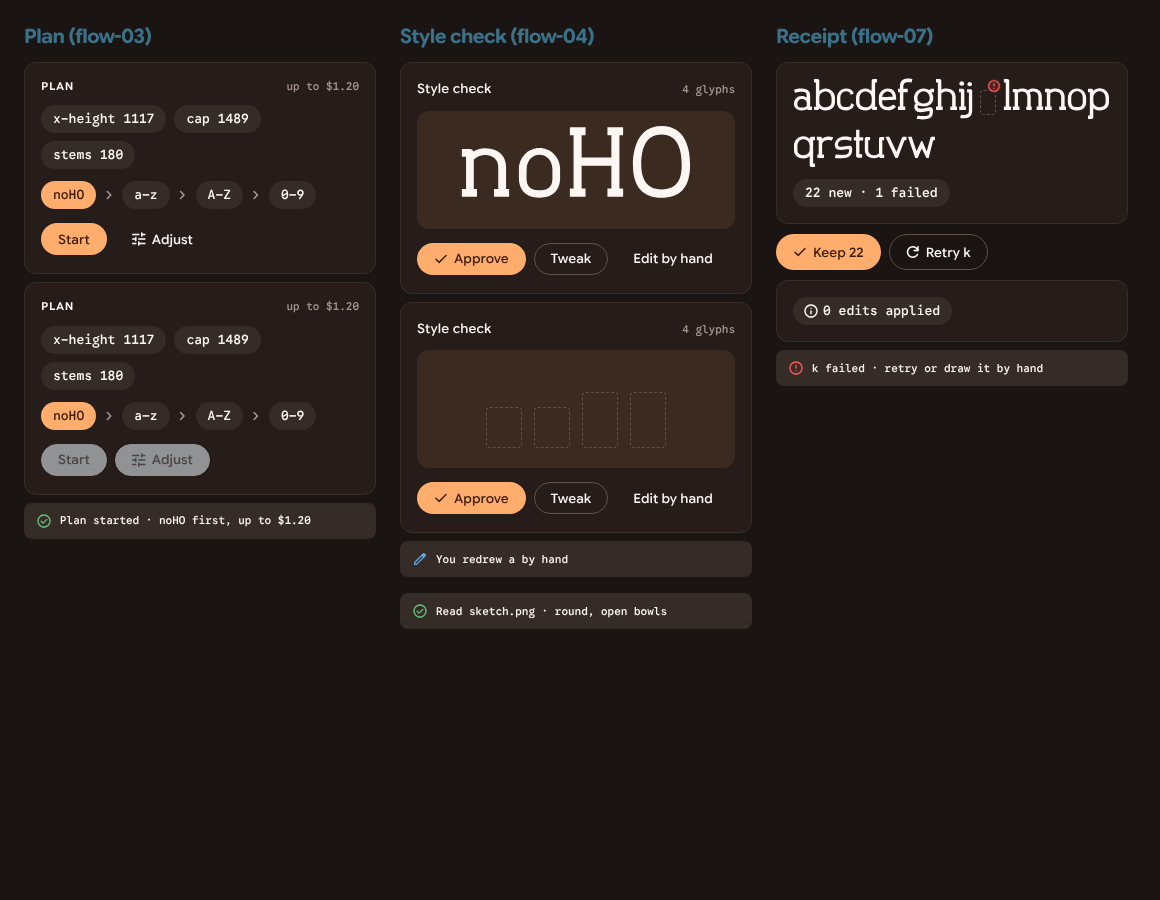
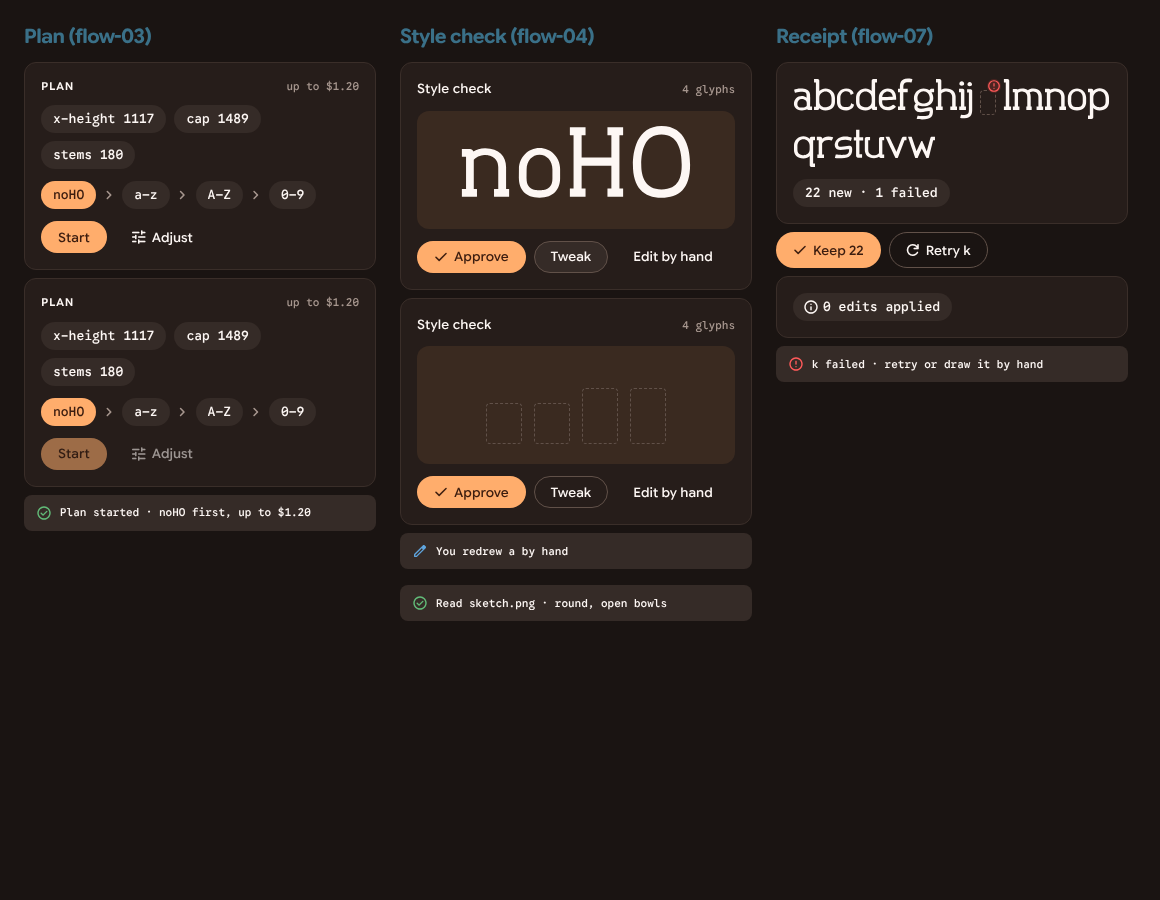
fix(agent): pin card button states above the legacy global button rules
QA on #45: resets.css `button:hover` / `button:focus` / `button[disabled]`
(0,1,1) beat `.agent-card__button` (0,1,0), so hover and focus shrank the
padding, changed radius/border/colour and added a shadow, and disabled
turned blue-grey. Every button state is now pinned at `button.agent-card__button:<state>`
(0,2,1) with padding, margin, radius, border, background, colour and shadow
fixed; variants and disabled only change paint. A test parses the
stylesheet and asserts the specificity and the pinned properties per state.

Also: keyboard activation keeps focus on the card instead of dropping it to
<body> when the pressed button is disabled; long spec chips get an ellipsis;
the tautological Enter/Space test is replaced by the focus-return check.

Claude-Session: https://claude.ai/code/session_01SojzY7MznXKEAYiSdw98cA

diff --git a/src/agent/ui/cards/agent-cards.css b/src/agent/ui/cards/agent-cards.css
@@ -83,6 +83,13 @@ agent-step-line + agent-step-line,
 	text-overflow: ellipsis;
 }
 
+.agent-chip > span:not(.agent-chip__icon) {
+	min-width: 0;
+	overflow: hidden;
+	text-overflow: ellipsis;
+	white-space: nowrap;
+}
+
 .agent-chip--selected {
 	background: var(--color-bg-accent);
 	color: var(--color-text-on-accent);
@@ -112,27 +119,48 @@ agent-step-line + agent-step-line,
 	margin-top: var(--space-2);
 }
 
-.agent-card__button {
+/* The legacy global button rules in resets.css (`button:hover`,
+`button:focus`, `button[disabled]`, specificity 0,1,1) would change padding,
+radius, border, colour and shadow per state. Every state is pinned here at
+0,2,1 or more so the only thing that changes on hover/focus/active/disabled
+is paint. */
+button.agent-card__button,
+button.agent-card__button:hover,
+button.agent-card__button:focus,
+button.agent-card__button:focus-visible,
+button.agent-card__button:active,
+button.agent-card__button:disabled,
+button.agent-card__button:disabled:hover,
+button.agent-card__button:disabled:active {
 	display: inline-flex;
 	align-items: center;
 	justify-content: center;
 	gap: var(--space-1);
 	height: 32px;
+	min-height: 0;
 	padding: 0 var(--space-4);
+	margin: 0;
 	border-radius: var(--radius-full);
 	border: 1px solid transparent;
-	background: transparent;
+	background-color: transparent;
 	color: var(--color-text-primary);
 	font: inherit;
 	font-size: 0.8125rem;
 	font-weight: 500;
 	line-height: 1;
+	text-align: center;
+	text-decoration: none;
+	box-shadow: none;
 	cursor: pointer;
 	white-space: nowrap;
 	transition: background-color 120ms ease, border-color 120ms ease;
 }
 
-.agent-card__button--lg {
+button.agent-card__button--lg,
+button.agent-card__button--lg:hover,
+button.agent-card__button--lg:focus,
+button.agent-card__button--lg:active,
+button.agent-card__button--lg:disabled {
 	height: 36px;
 }
 
@@ -141,32 +169,75 @@ agent-step-line + agent-step-line,
 	margin-left: -2px;
 }
 
-.agent-card__button--primary {
-	background: var(--color-bg-accent);
+/* Variants: paint only (colour, background, border colour) — never geometry */
+button.agent-card__button--primary,
+button.agent-card__button--primary:focus,
+button.agent-card__button--primary:active {
+	background-color: var(--color-bg-accent);
+	border-color: transparent;
 	color: var(--color-text-on-accent);
 }
 
-.agent-card__button--primary:hover:not(:disabled) {
-	background: var(--color-bg-accent-hover);
+button.agent-card__button--primary:hover:not(:disabled) {
+	background-color: var(--color-bg-accent-hover);
+	border-color: transparent;
+	color: var(--color-text-on-accent);
 }
 
-.agent-card__button--secondary {
+button.agent-card__button--secondary,
+button.agent-card__button--secondary:focus,
+button.agent-card__button--secondary:active {
 	border-color: var(--color-border-strong);
 }
 
-.agent-card__button--secondary:hover:not(:disabled),
-.agent-card__button--ghost:hover:not(:disabled) {
-	background: var(--color-bg-subtle);
+button.agent-card__button--secondary:hover:not(:disabled) {
+	background-color: var(--color-bg-subtle);
+	border-color: var(--color-border-strong);
+	color: var(--color-text-primary);
 }
 
-.agent-card__button:disabled {
+button.agent-card__button--ghost:hover:not(:disabled) {
+	background-color: var(--color-bg-subtle);
+	border-color: transparent;
+	color: var(--color-text-primary);
+}
+
+button.agent-card__button:focus-visible {
+	outline: var(--focus-ring);
+	outline-offset: var(--focus-ring-offset);
+}
+
+/* Disabled keeps the variant's colours at reduced opacity (no blue-grey). */
+button.agent-card__button:disabled,
+button.agent-card__button:disabled:hover,
+button.agent-card__button:disabled:focus,
+button.agent-card__button:disabled:active {
 	cursor: default;
 	opacity: 0.55;
 }
 
-.agent-card__button:focus-visible {
-	outline: var(--focus-ring);
-	outline-offset: var(--focus-ring-offset);
+button.agent-card__button--primary:disabled,
+button.agent-card__button--primary:disabled:hover,
+button.agent-card__button--primary:disabled:focus {
+	background-color: var(--color-bg-accent);
+	border-color: transparent;
+	color: var(--color-text-on-accent);
+}
+
+button.agent-card__button--secondary:disabled,
+button.agent-card__button--secondary:disabled:hover,
+button.agent-card__button--secondary:disabled:focus {
+	background-color: transparent;
+	border-color: var(--color-border-strong);
+	color: var(--color-text-primary);
+}
+
+button.agent-card__button--ghost:disabled,
+button.agent-card__button--ghost:disabled:hover,
+button.agent-card__button--ghost:disabled:focus {
+	background-color: transparent;
+	border-color: transparent;
+	color: var(--color-text-primary);
 }
 
 /* Style check well: 320×118, glyphs scale with the card, never clip */

diff --git a/src/agent/tests/agent-cards.test.js b/src/agent/tests/agent-cards.test.js
@@ -1,3 +1,5 @@
+import fs from 'fs';
+import path from 'path';
 import { afterEach, describe, expect, it, vi } from 'vitest';
 import { GlyphrStudioProject } from '../../project_data/glyphr_studio_project.js';
 import { Glyph } from '../../project_data/glyph.js';
@@ -88,12 +90,22 @@ describe('agent card shell', () => {
 		}
 		buttons[1].focus();
 		expect(document.activeElement).toBe(buttons[1]);
-		// Native buttons activate on Enter / Space through click; both reach the
-		// same handler.
-		buttons[1].dispatchEvent(new KeyboardEvent('keydown', { key: 'Enter', bubbles: true }));
-		buttons[1].dispatchEvent(new KeyboardEvent('keyup', { key: ' ', bubbles: true }));
+		// Enter / Space on a native button dispatch click; the card then locks
+		// and keeps keyboard focus instead of dropping it to <body>.
 		buttons[1].click();
 		expect(events.map((e) => e.action)).toEqual(['tweak']);
+		expect(buttons[1].disabled).toBe(true);
+		expect(document.activeElement).toBe(card);
+		expect(card.tabIndex).toBe(-1);
+	});
+
+	it('pointer activation without focus inside the card does not steal focus', () => {
+		const outside = document.createElement('button');
+		document.body.append(outside);
+		outside.focus();
+		const card = mount('agent-plan-card', { cardId: 'p' });
+		card.fire('start');
+		expect(document.activeElement).toBe(outside);
 	});
 
 	it('the data setter renders and re-rendering unlocks the card', () => {
@@ -295,5 +307,68 @@ describe('<agent-step-line>', () => {
 		expect(() => mod.registerAgentCards()).not.toThrow();
 		expect(customElements.get('agent-step-line')).toBe(mod.AgentStepLine);
 		vi.restoreAllMocks();
+	});
+});
+
+describe('agent-cards.css beats the legacy global button rules', () => {
+	const css = fs
+		.readFileSync(path.resolve(__dirname, '../ui/cards/agent-cards.css'), 'utf8')
+		.replace(/\/\*[\s\S]*?\*\//g, '');
+	const rules = [];
+	const re = /([^{}]+)\{([^{}]*)\}/g;
+	let match;
+	while ((match = re.exec(css)) !== null) {
+		for (const selector of match[1].split(',')) {
+			rules.push({ selector: selector.trim(), declarations: match[2] });
+		}
+	}
+	/** (ids, classes/attrs/pseudo-classes, elements) — :not() counts its argument */
+	const specificity = (selector) => {
+		const s = selector.replace(/:not\(([^)]*)\)/g, '$1');
+		const ids = (s.match(/#[\w-]+/g) || []).length;
+		const classes = (s.match(/\.[\w-]+|\[[^\]]+\]|:(?!:)[\w-]+/g) || []).length;
+		const elements = (s.match(/(^|[\s>+~(])[a-z][\w-]*/g) || []).length;
+		return [ids, classes, elements];
+	};
+	/**
+	 * The legacy rules are `button` (0,0,1) at rest and `button:hover` /
+	 * `button:focus` / `button[disabled]` (0,1,1) for states. A rest selector
+	 * must beat (0,0,1); any selector carrying a state must beat (0,1,1).
+	 */
+	const beatsLegacy = ([i, c, e], selector) => {
+		const stateful = /:(hover|focus|focus-visible|active|disabled)/.test(selector);
+		if (i > 0) return true;
+		return stateful ? c > 1 || (c === 1 && e > 1) : c > 0 || e > 1;
+	};
+	const PINNED = ['padding', 'margin', 'border-radius', 'border', 'background-color', 'box-shadow', 'color'];
+	const STATES = ['', ':hover', ':focus', ':focus-visible', ':active', ':disabled', ':disabled:hover'];
+
+	it('every state of .agent-card__button pins its box metrics at specificity above button:hover (0,1,1)', () => {
+		for (const state of STATES) {
+			const selector = `button.agent-card__button${state}`;
+			const rule = rules.find((r) => r.selector === selector);
+			expect(rule, `rule for ${selector}`).toBeDefined();
+			expect(beatsLegacy(specificity(rule.selector), rule.selector), `${selector} specificity`).toBe(
+				true
+			);
+			for (const prop of PINNED) {
+				expect(rule.declarations, `${selector} pins ${prop}`).toMatch(new RegExp(`(^|;|\\s)${prop}\\s*:`));
+			}
+		}
+	});
+
+	it('no button rule in the cards stylesheet is weaker than the legacy global state rules', () => {
+		for (const rule of rules) {
+			if (!rule.selector.includes('agent-card__button')) continue;
+			if (rule.selector.includes('agent-card__icon')) continue;
+			expect(beatsLegacy(specificity(rule.selector), rule.selector), rule.selector).toBe(true);
+		}
+	});
+
+	it('the variant hover/disabled rules never change geometry, only paint', () => {
+		for (const rule of rules) {
+			if (!/agent-card__button--(primary|secondary|ghost)/.test(rule.selector)) continue;
+			expect(rule.declarations).not.toMatch(/(^|;|\s)(padding|margin|border-radius|border|box-shadow|height)\s*:/);
+		}
 	});
 });

diff --git a/src/agent/ui/cards/card-shell.js b/src/agent/ui/cards/card-shell.js
@@ -209,9 +209,17 @@ export class AgentCard extends HTMLElement {
 	act(action, extra = {}) {
 		this.acted = action;
 		this.setAttribute('data-acted', action);
+		const hadFocus = this.contains(document.activeElement);
 		this.querySelectorAll('button').forEach((button) => {
 			/** @type {HTMLButtonElement} */ (button).disabled = true;
 		});
+		if (hadFocus) {
+			// Disabling the pressed button would drop keyboard focus to <body>;
+			// keep it on the card so the appended step line is announced and
+			// Tab continues from here.
+			this.tabIndex = -1;
+			this.focus({ preventScroll: true });
+		}
 		const copy = this.stepCopyFor(action, extra);
 		if (copy) {
 			const line = /** @type {any} */ (document.createElement('agent-step-line'));
